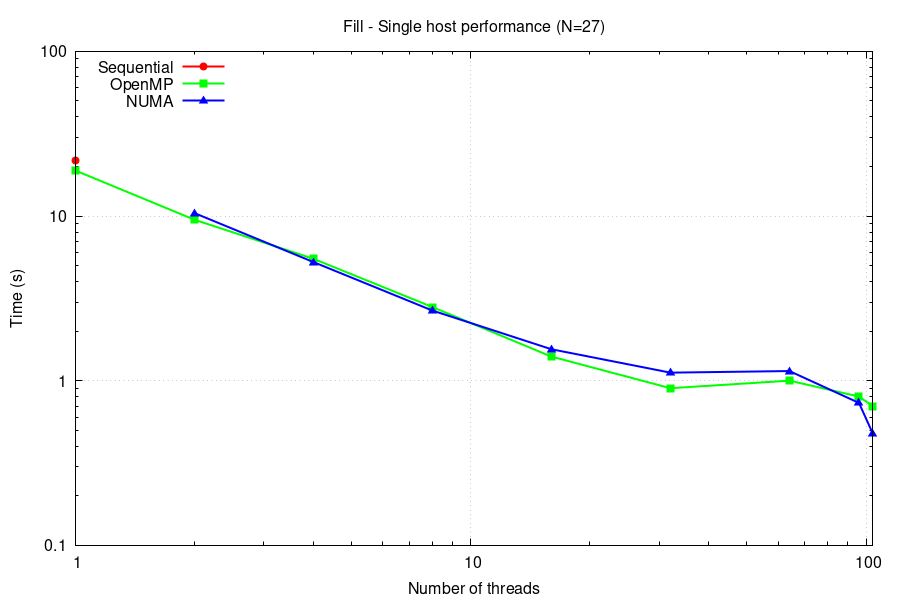
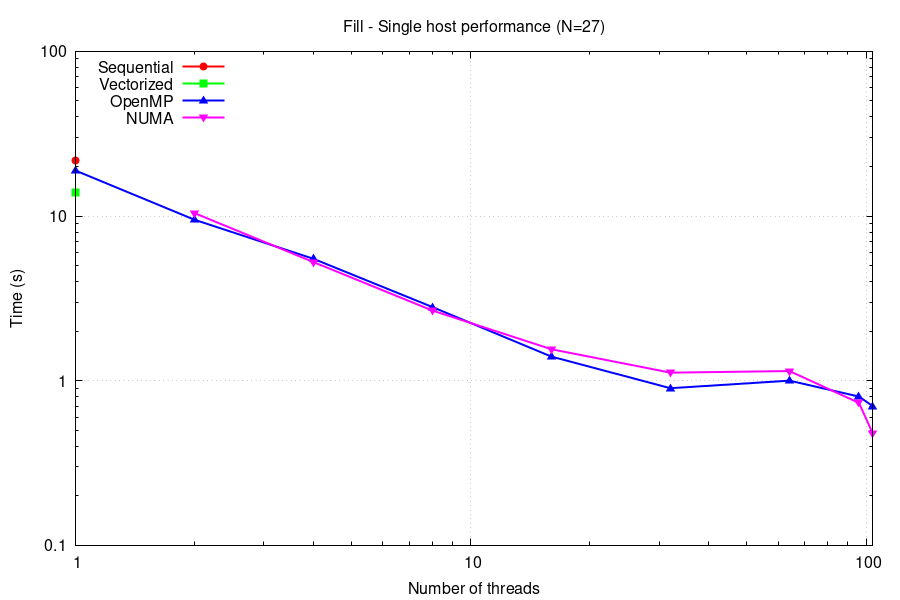
added vectorized to plots

diff --git a/mitm_vectorized.c b/mitm_vectorized.c
@@ -337,7 +337,7 @@ int golden_claw_search(int maxres, u64 k1[], u64 k2[]) {
     }
 
     double mid = wtime();
-    printf("Fill: %.1fs\n", mid - start);
+    printf("Fill: %.3fs\n", mid - start);
 
     int nres = 0;
     u64 ncandidates = 0;
@@ -364,7 +364,7 @@ int golden_claw_search(int maxres, u64 k1[], u64 k2[]) {
                 }
         }
     }
-    printf("Probe: %.1fs. %" PRId64 " candidate pairs tested\n", wtime() - mid, ncandidates);
+    printf("Probe: %.3fs. %" PRId64 " candidate pairs tested\n", wtime() - mid, ncandidates);
     return nres;
 }
 
@@ -469,12 +469,17 @@ int main(int argc, char** argv) {
     printf("Running with n=%d, C0=(%08x, %08x) and C1=(%08x, %08x)\n",
         (int)n, C[0][0], C[0][1], C[1][0], C[1][1]);
 
+    double start_time = wtime();
+
     dict_setup(1.125 * (1ull << n));
 
     /* search */
     u64 k1[16], k2[16];
     int nkey = golden_claw_search(16, k1, k2);
     assert(nkey > 0);
+
+    double end_time = wtime();
+    printf("Total time: %.3fs\n", end_time - start_time);
 
     /* validation */
     for (int i = 0; i < nkey; i++) {
